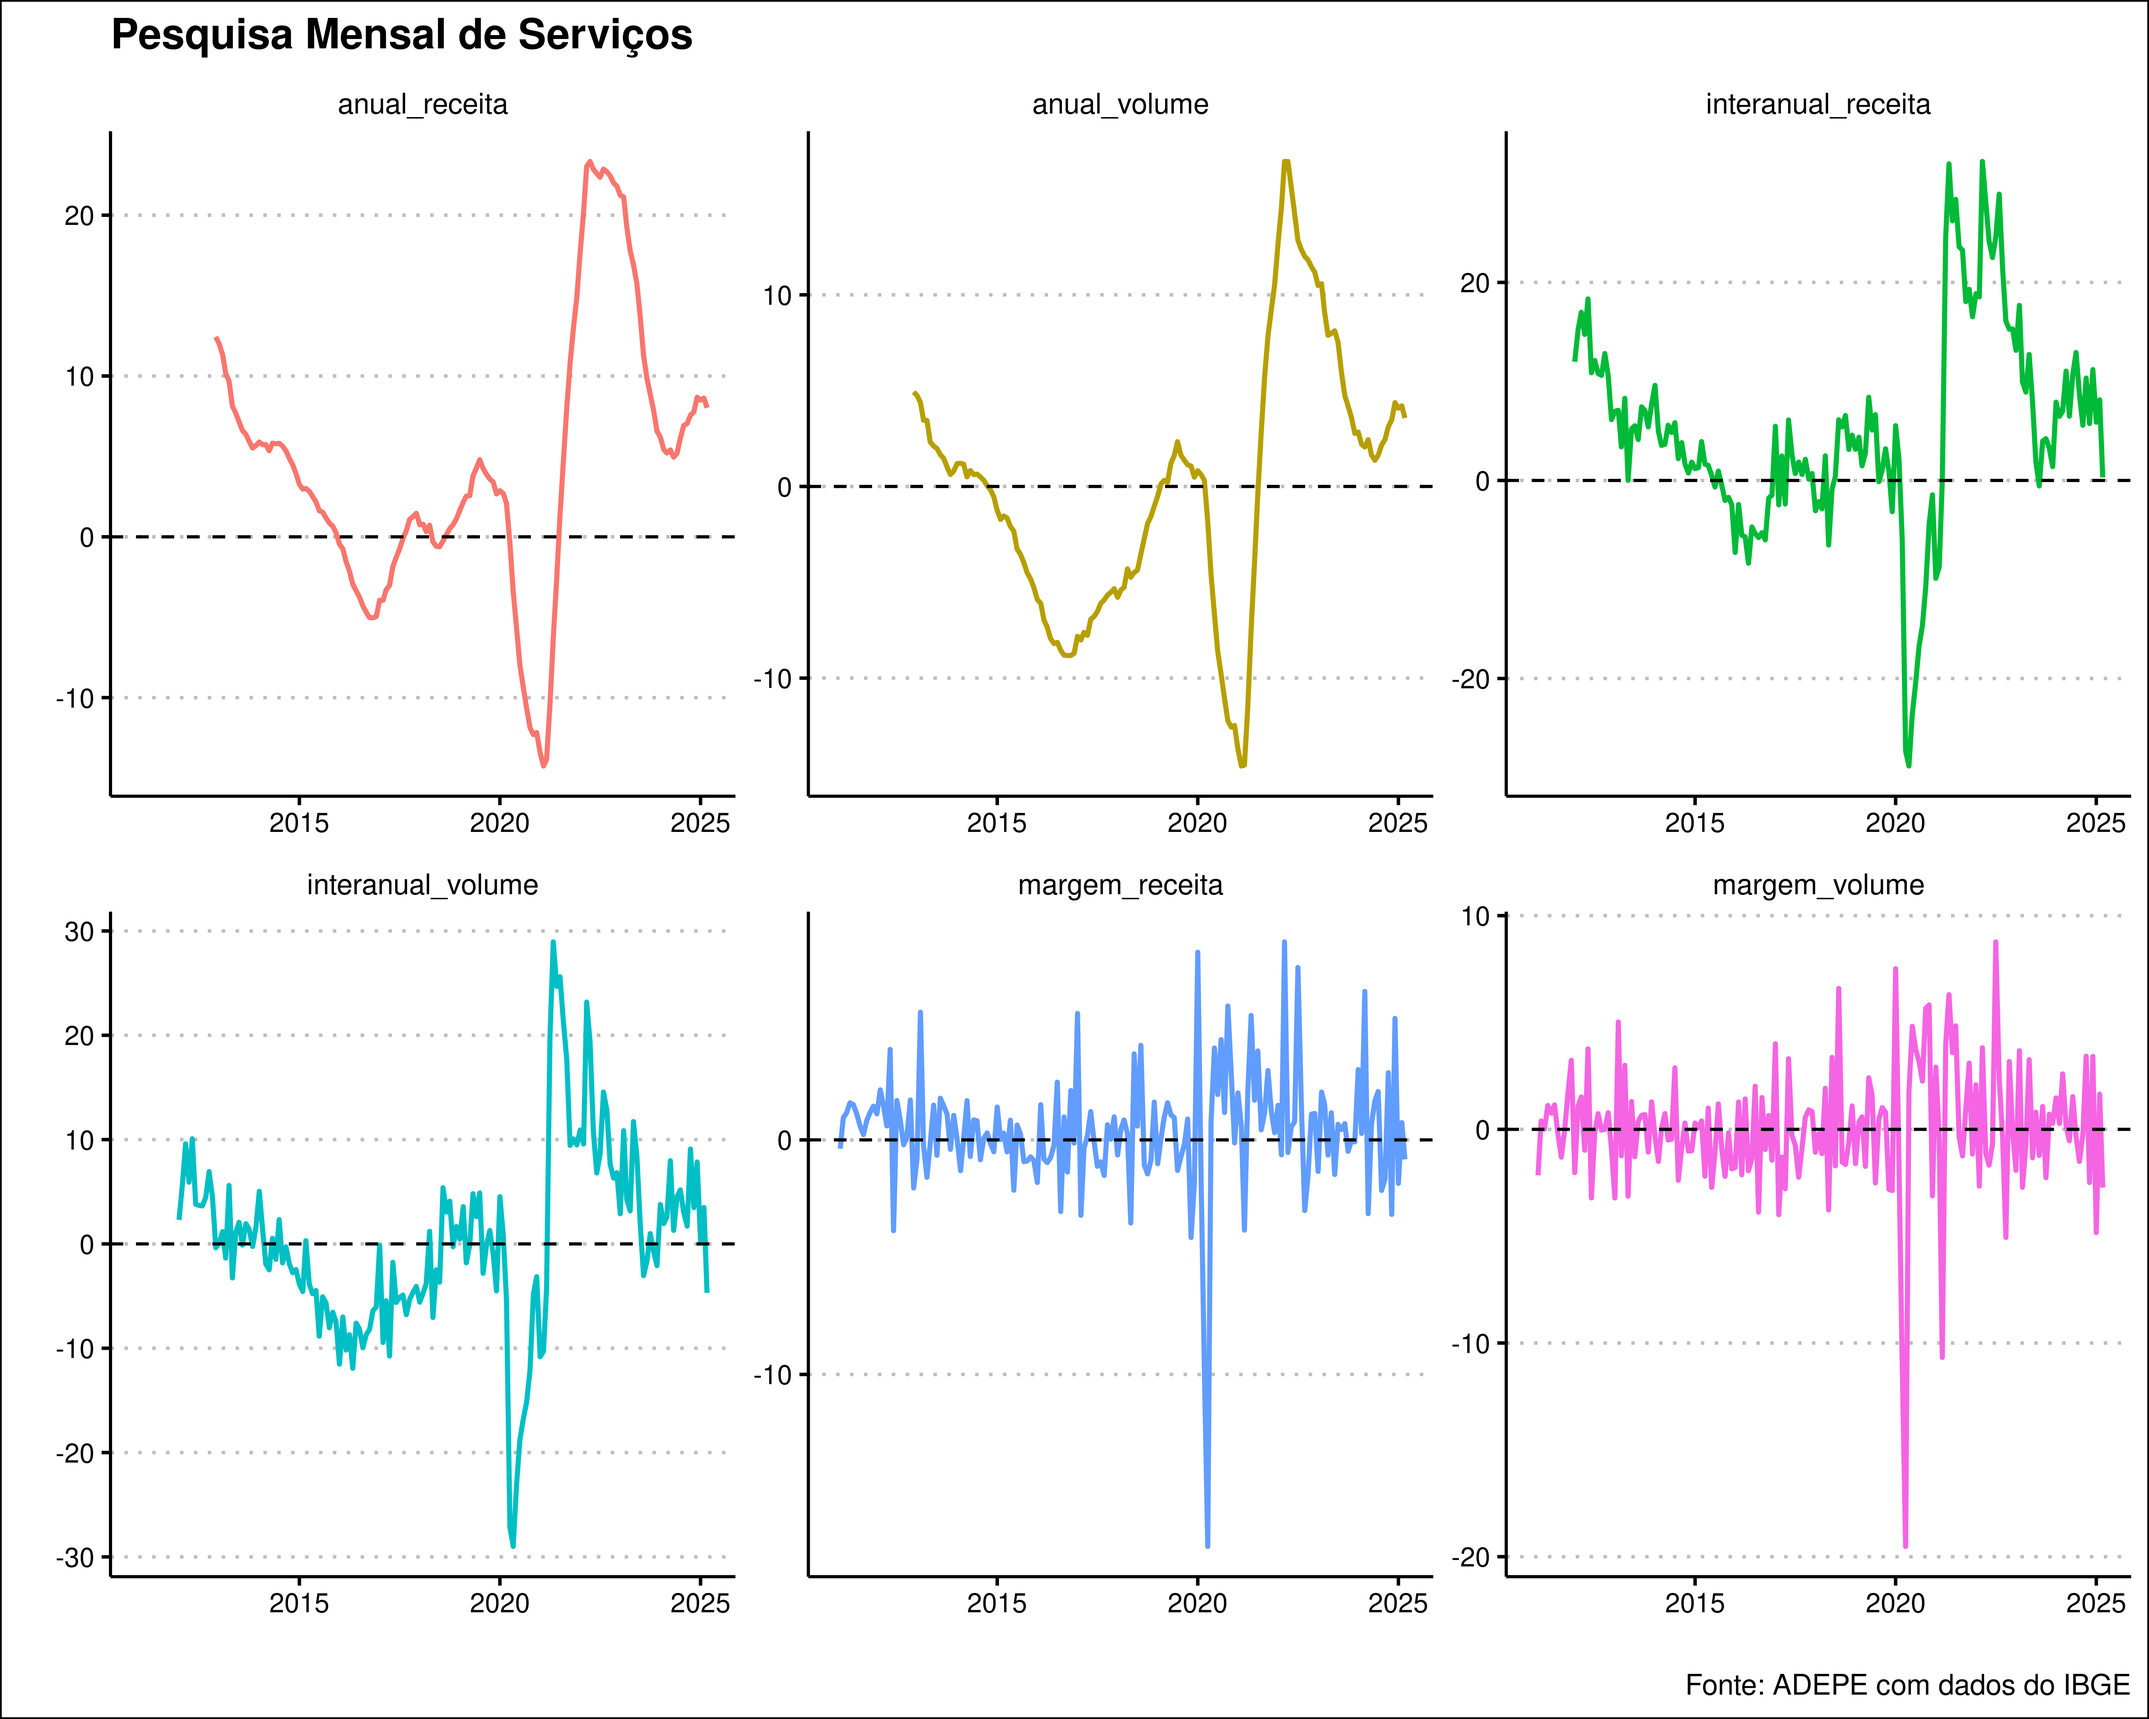
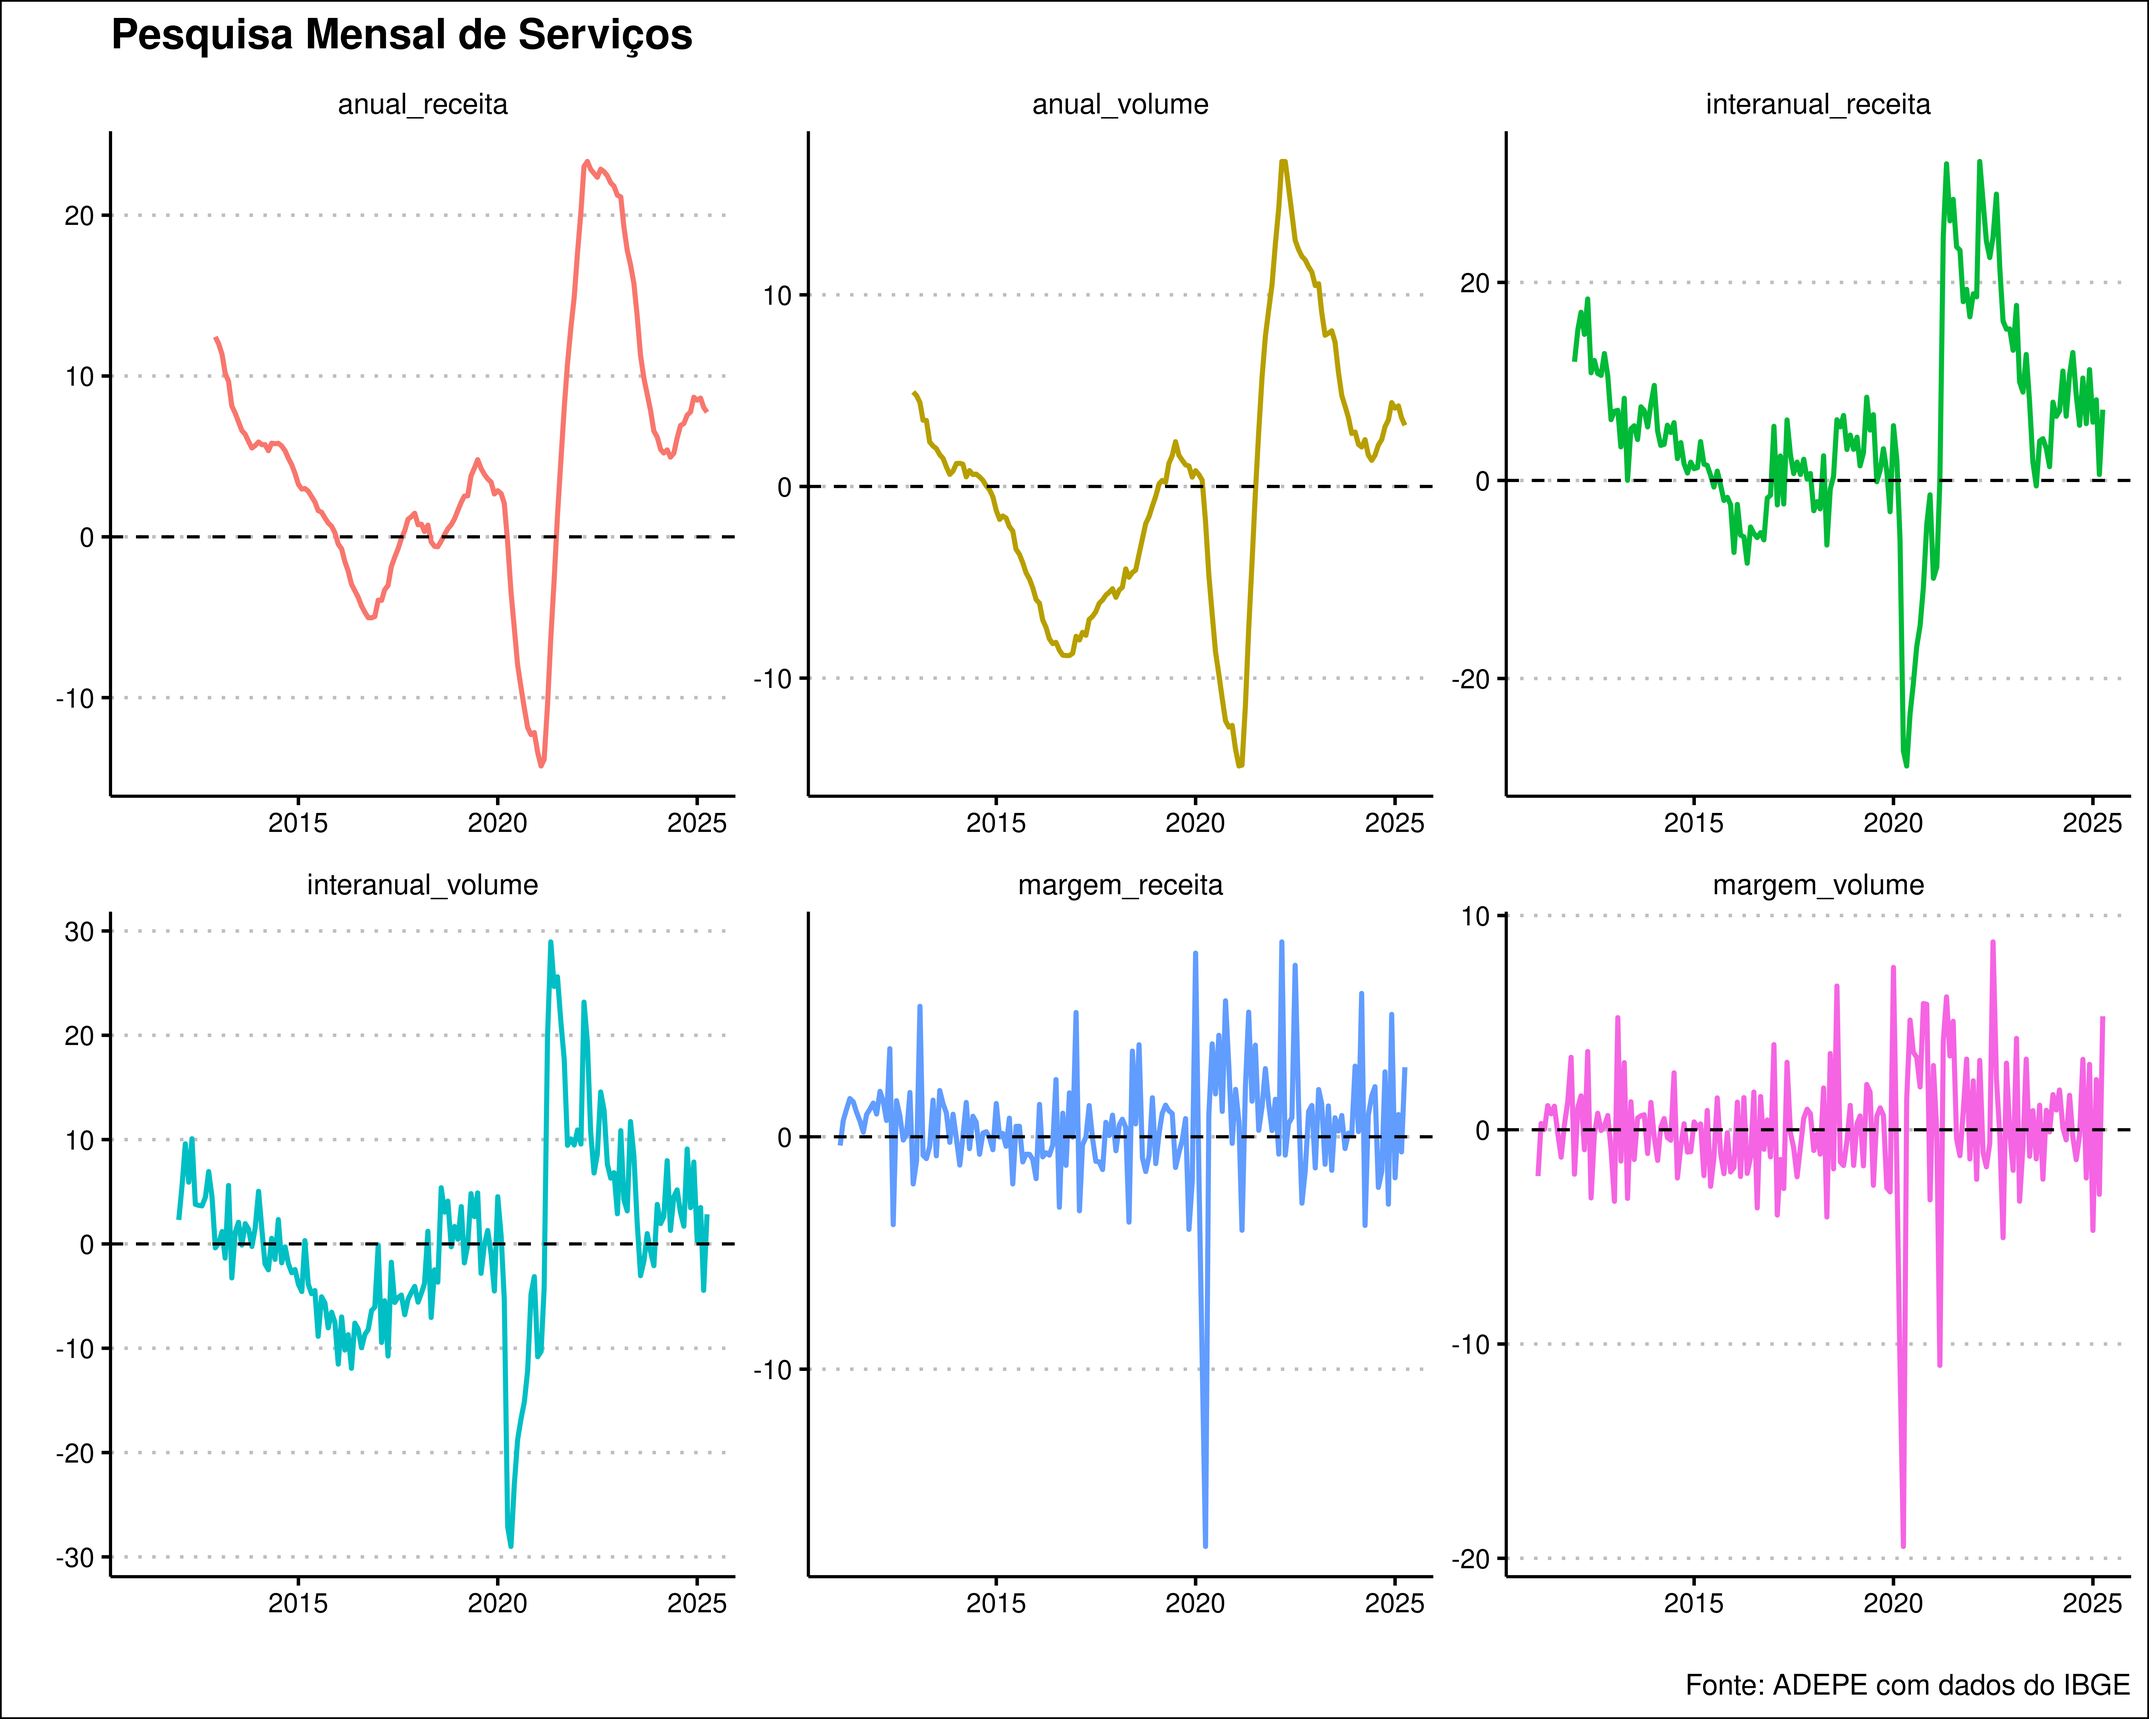
Atualização de relatório automatizada

diff --git a/pms/pms.html b/pms/pms.html
@@ -381,40 +381,40 @@ Núcleo de Dados <br><span style="font-size: 70%;">ADEPE<br><a href="https://git
 </thead>
 <tbody>
 <tr class="odd">
-<td style="text-align: left;">2024-10-01</td>
-<td style="text-align: right;">0.48</td>
-<td style="text-align: right;">9.50</td>
-<td style="text-align: right;">7.38</td>
-</tr>
-<tr class="even">
 <td style="text-align: left;">2024-11-01</td>
-<td style="text-align: right;">-0.37</td>
+<td style="text-align: right;">-0.40</td>
 <td style="text-align: right;">6.15</td>
 <td style="text-align: right;">7.29</td>
 </tr>
-<tr class="odd">
+<tr class="even">
 <td style="text-align: left;">2024-12-01</td>
-<td style="text-align: right;">-0.41</td>
+<td style="text-align: right;">-0.44</td>
 <td style="text-align: right;">6.68</td>
 <td style="text-align: right;">7.52</td>
 </tr>
-<tr class="even">
+<tr class="odd">
 <td style="text-align: left;">2025-01-01</td>
-<td style="text-align: right;">2.44</td>
-<td style="text-align: right;">6.34</td>
+<td style="text-align: right;">2.43</td>
+<td style="text-align: right;">6.35</td>
 <td style="text-align: right;">7.27</td>
 </tr>
-<tr class="odd">
+<tr class="even">
 <td style="text-align: left;">2025-02-01</td>
-<td style="text-align: right;">1.46</td>
-<td style="text-align: right;">8.94</td>
+<td style="text-align: right;">1.39</td>
+<td style="text-align: right;">8.97</td>
 <td style="text-align: right;">7.32</td>
 </tr>
-<tr class="even">
+<tr class="odd">
 <td style="text-align: left;">2025-03-01</td>
-<td style="text-align: right;">0.96</td>
-<td style="text-align: right;">7.54</td>
-<td style="text-align: right;">7.69</td>
+<td style="text-align: right;">0.99</td>
+<td style="text-align: right;">7.67</td>
+<td style="text-align: right;">7.70</td>
+</tr>
+<tr class="even">
+<td style="text-align: left;">2025-04-01</td>
+<td style="text-align: right;">-0.04</td>
+<td style="text-align: right;">7.10</td>
+<td style="text-align: right;">7.52</td>
 </tr>
 </tbody>
 </table>
@@ -436,40 +436,40 @@ Núcleo de Dados <br><span style="font-size: 70%;">ADEPE<br><a href="https://git
 </thead>
 <tbody>
 <tr class="odd">
-<td style="text-align: left;">2024-10-01</td>
-<td style="text-align: right;">1.20</td>
-<td style="text-align: right;">6.27</td>
-<td style="text-align: right;">2.71</td>
-</tr>
-<tr class="even">
 <td style="text-align: left;">2024-11-01</td>
 <td style="text-align: right;">-1.33</td>
 <td style="text-align: right;">2.49</td>
 <td style="text-align: right;">2.77</td>
 </tr>
-<tr class="odd">
+<tr class="even">
 <td style="text-align: left;">2024-12-01</td>
-<td style="text-align: right;">0.14</td>
+<td style="text-align: right;">0.16</td>
 <td style="text-align: right;">2.78</td>
 <td style="text-align: right;">3.09</td>
 </tr>
-<tr class="even">
+<tr class="odd">
 <td style="text-align: left;">2025-01-01</td>
-<td style="text-align: right;">-0.52</td>
-<td style="text-align: right;">1.02</td>
+<td style="text-align: right;">-0.48</td>
+<td style="text-align: right;">1.03</td>
 <td style="text-align: right;">2.77</td>
 </tr>
-<tr class="odd">
+<tr class="even">
 <td style="text-align: left;">2025-02-01</td>
-<td style="text-align: right;">0.87</td>
-<td style="text-align: right;">4.28</td>
-<td style="text-align: right;">2.80</td>
+<td style="text-align: right;">0.89</td>
+<td style="text-align: right;">4.30</td>
+<td style="text-align: right;">2.81</td>
+</tr>
+<tr class="odd">
+<td style="text-align: left;">2025-03-01</td>
+<td style="text-align: right;">0.39</td>
+<td style="text-align: right;">1.99</td>
+<td style="text-align: right;">3.06</td>
 </tr>
 <tr class="even">
-<td style="text-align: left;">2025-03-01</td>
-<td style="text-align: right;">0.32</td>
-<td style="text-align: right;">1.87</td>
-<td style="text-align: right;">3.05</td>
+<td style="text-align: left;">2025-04-01</td>
+<td style="text-align: right;">0.19</td>
+<td style="text-align: right;">1.77</td>
+<td style="text-align: right;">2.72</td>
 </tr>
 </tbody>
 </table>
@@ -517,40 +517,40 @@ Núcleo de Dados <br><span style="font-size: 70%;">ADEPE<br><a href="https://git
 </thead>
 <tbody>
 <tr class="odd">
-<td style="text-align: left;">2024-10-01</td>
-<td style="text-align: right;">2.86</td>
-<td style="text-align: right;">10.34</td>
-<td style="text-align: right;">7.56</td>
-</tr>
-<tr class="even">
 <td style="text-align: left;">2024-11-01</td>
-<td style="text-align: right;">-3.18</td>
+<td style="text-align: right;">-2.90</td>
 <td style="text-align: right;">5.74</td>
 <td style="text-align: right;">7.77</td>
 </tr>
-<tr class="odd">
+<tr class="even">
 <td style="text-align: left;">2024-12-01</td>
-<td style="text-align: right;">5.18</td>
+<td style="text-align: right;">5.27</td>
 <td style="text-align: right;">11.19</td>
 <td style="text-align: right;">8.68</td>
 </tr>
-<tr class="even">
+<tr class="odd">
 <td style="text-align: left;">2025-01-01</td>
-<td style="text-align: right;">-1.85</td>
-<td style="text-align: right;">5.89</td>
+<td style="text-align: right;">-1.77</td>
+<td style="text-align: right;">5.88</td>
 <td style="text-align: right;">8.50</td>
 </tr>
-<tr class="odd">
+<tr class="even">
 <td style="text-align: left;">2025-02-01</td>
-<td style="text-align: right;">0.74</td>
+<td style="text-align: right;">0.96</td>
 <td style="text-align: right;">8.14</td>
 <td style="text-align: right;">8.63</td>
 </tr>
-<tr class="even">
+<tr class="odd">
 <td style="text-align: left;">2025-03-01</td>
-<td style="text-align: right;">-0.83</td>
-<td style="text-align: right;">0.30</td>
-<td style="text-align: right;">8.02</td>
+<td style="text-align: right;">-0.65</td>
+<td style="text-align: right;">0.60</td>
+<td style="text-align: right;">8.05</td>
+</tr>
+<tr class="even">
+<td style="text-align: left;">2025-04-01</td>
+<td style="text-align: right;">2.99</td>
+<td style="text-align: right;">7.15</td>
+<td style="text-align: right;">7.75</td>
 </tr>
 </tbody>
 </table>
@@ -572,40 +572,40 @@ Núcleo de Dados <br><span style="font-size: 70%;">ADEPE<br><a href="https://git
 </thead>
 <tbody>
 <tr class="odd">
-<td style="text-align: left;">2024-10-01</td>
-<td style="text-align: right;">3.42</td>
-<td style="text-align: right;">9.10</td>
-<td style="text-align: right;">3.12</td>
+<td style="text-align: left;">2024-11-01</td>
+<td style="text-align: right;">-2.25</td>
+<td style="text-align: right;">3.47</td>
+<td style="text-align: right;">3.47</td>
 </tr>
 <tr class="even">
-<td style="text-align: left;">2024-11-01</td>
-<td style="text-align: right;">-2.49</td>
-<td style="text-align: right;">3.47</td>
-<td style="text-align: right;">3.47</td>
-</tr>
-<tr class="odd">
 <td style="text-align: left;">2024-12-01</td>
-<td style="text-align: right;">3.41</td>
+<td style="text-align: right;">3.05</td>
 <td style="text-align: right;">7.85</td>
 <td style="text-align: right;">4.38</td>
 </tr>
-<tr class="even">
+<tr class="odd">
 <td style="text-align: left;">2025-01-01</td>
-<td style="text-align: right;">-4.83</td>
+<td style="text-align: right;">-4.70</td>
 <td style="text-align: right;">0.27</td>
 <td style="text-align: right;">4.09</td>
 </tr>
-<tr class="odd">
+<tr class="even">
 <td style="text-align: left;">2025-02-01</td>
-<td style="text-align: right;">1.65</td>
+<td style="text-align: right;">2.34</td>
 <td style="text-align: right;">3.49</td>
 <td style="text-align: right;">4.20</td>
 </tr>
-<tr class="even">
+<tr class="odd">
 <td style="text-align: left;">2025-03-01</td>
-<td style="text-align: right;">-2.73</td>
-<td style="text-align: right;">-4.69</td>
-<td style="text-align: right;">3.57</td>
+<td style="text-align: right;">-3.01</td>
+<td style="text-align: right;">-4.45</td>
+<td style="text-align: right;">3.59</td>
+</tr>
+<tr class="even">
+<td style="text-align: left;">2025-04-01</td>
+<td style="text-align: right;">5.30</td>
+<td style="text-align: right;">2.84</td>
+<td style="text-align: right;">3.19</td>
 </tr>
 </tbody>
 </table>
